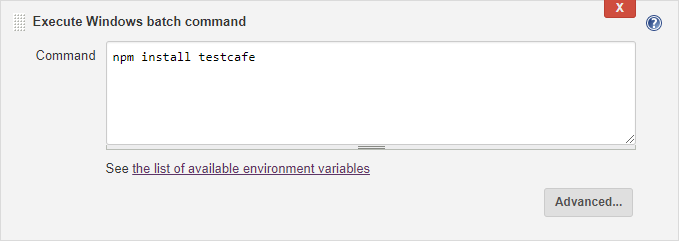
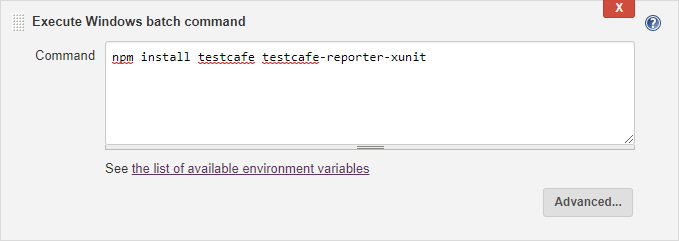
Add VCS integration and test results

diff --git a/docs/articles/documentation/recipes/integrating-testcafe-with-jenkins-ci-system.md b/docs/articles/documentation/recipes/integrating-testcafe-with-jenkins-ci-system.md
@@ -7,13 +7,21 @@ permalink: /documentation/recipes/integrating-testcafe-with-jenkins-ci-system.ht
 
 TestCafe has an extensive command line interface that allows it to fit well in any popular continuous integration system.
 
-This topic shows how you can integrate TestCafe tests into project build process in Jenkins.
+This topic shows how you can integrate TestCafe tests into project build process in [Jenkins](https://jenkins.io/).
 
-## Step 1 - Adding a Command to Install TestCafe
+## Step 1 - Fetching Test Code From a Repository
+
+In this tutorial, we will use tests pubished in a separate repository on GitHub - [ci-integration-demo](https://github.com/VasilyStrelyaev/ci-integration-demo). If you use a different version control system, search for a plugin that integrates it with Jenkins.
 
 Open your project and choose **Configure** from the right pane.
 
 ![Click the Configure Button](../../images/jenkins/project-configure.png)
+
+Scroll down to the **Source Code Management** section and select *Git*, then specify the **Repository URL**.
+
+![Fetch Test Results](../../images/jenkins/check-out-tests.png)
+
+## Step 2 - Adding a Command to Install TestCafe
 
 Go to the **Build** section, find a step that builds you application and add a new step right after it. To do this, click **Add build step** and select a step type that runs a shell command.
 
@@ -22,12 +30,14 @@ Go to the **Build** section, find a step that builds you application and add a n
 In the **Command** box, type the following.
 
 ```sh
-npm install testcafe
+npm install testcafe testcafe-reporter-xunit
 ```
+
+This command installs the main `testcafe` module and a plugin that saves test run reports in the xUnit format.
 
 ![npm install Command](../../images/jenkins/npm-install-command.png)
 
-## Step 2 - Adding a Command to Run TestCafe
+## Step 3 - Adding a Command to Run TestCafe
 
 Add another step that executes a shell command after the previous one. This step will run TestCafe.
 
@@ -41,7 +51,7 @@ This runs TestCafe tests from the `tests` directory in Google Chrome. Test resul
 
 ![Run Tests Command](../../images/jenkins/run-tests-command.png)
 
-## Step 3 - Publishing Test Run Reports
+## Step 4 - Publishing Test Run Reports
 
 Go to the **Post-build Actions** section and click **Add post-build action**. In the drop-down list, select **Publish JUnit test result report**.
 
@@ -51,10 +61,20 @@ In the **Test report XMLs** field, specify the test report file: `res.xml`.
 
 ![Publishing Test Report](../../images/jenkins/publish-test-report.png)
 
-## Step 4 - Run the Test
+## Step 5 - Run the Test
 
 Click **Save** and you will be navigated to the Project page.
 
 Hit **Build Now** to build the project immediately.
 
 ![Click the Build Now Button](../../images/jenkins/project-build-now.png)
+
+## Step 6 - View Test Results
+
+In the **Build History** section of the **Project** page, click a build and select **Test Results** from the drop-down menu.
+
+![Build History](../../images/jenkins/build-history.png)
+
+Jenkins will display a test run report where you can see general information about testing results. You can click individual tests for details.
+
+![View Test Results](../../images/jenkins/test-results.png)
